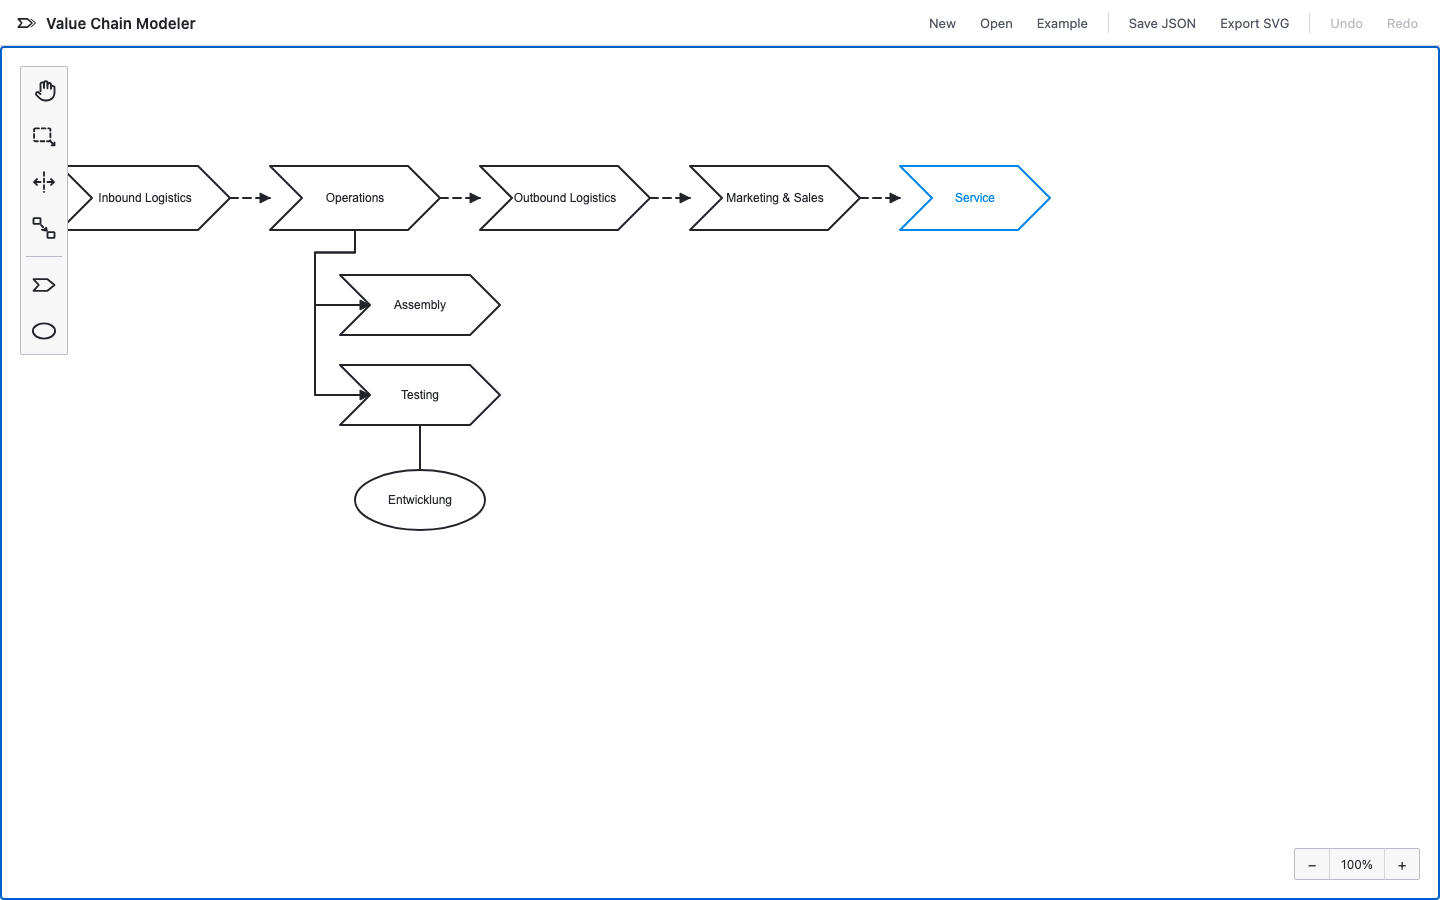
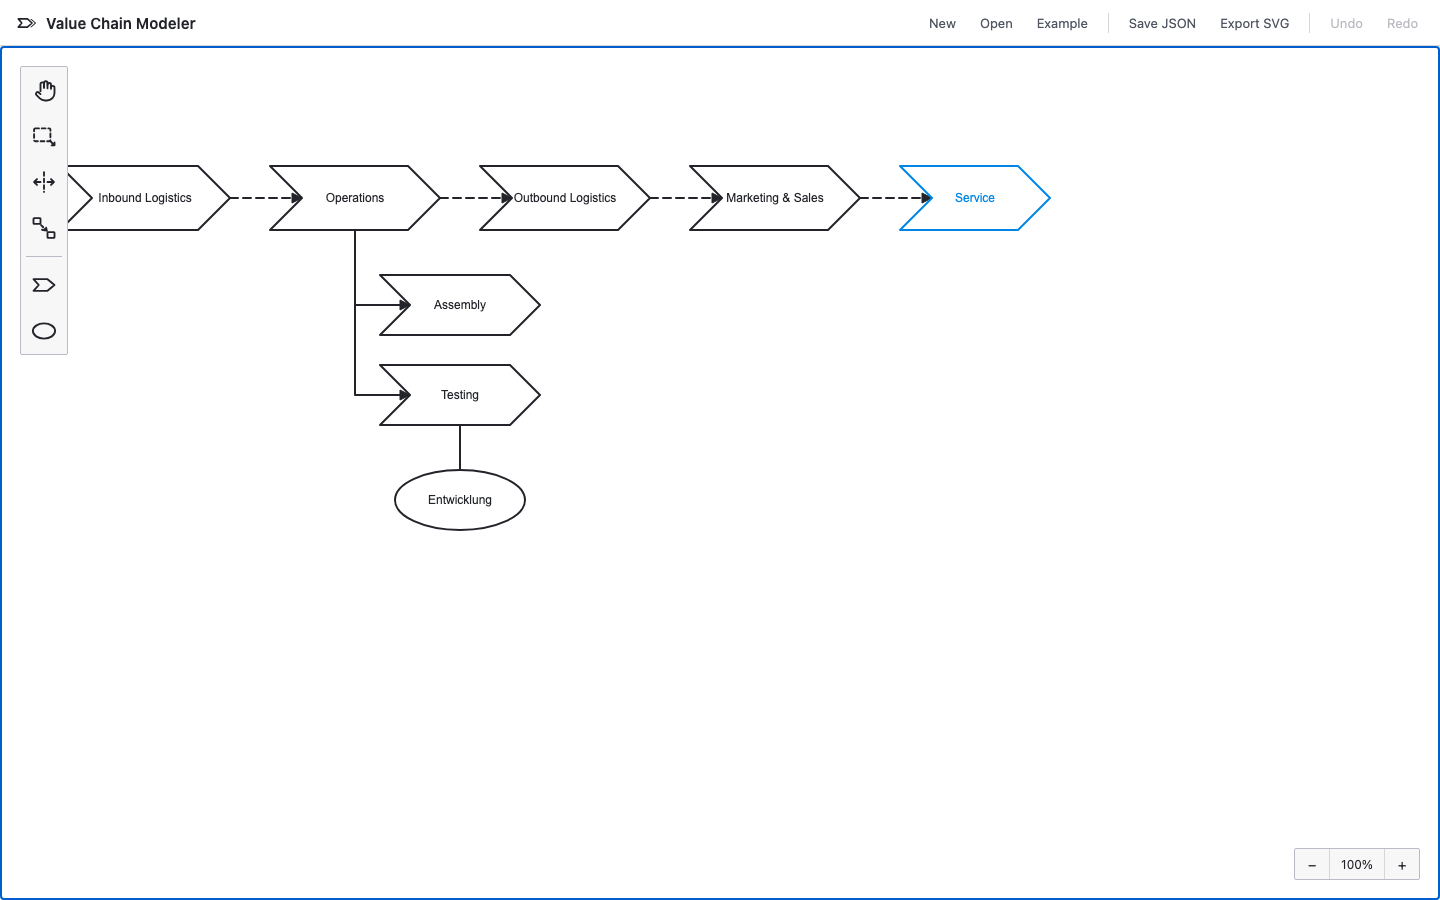
fix(renderer): kink-free column trunk and regenerated example routes
The column trunk now runs straight under the parent's bottom-center exit
whenever all sub-steps clear it, jogging left only when they overlap the
center; default hierarchy placement puts the first child right of the center
accordingly. The Porter example is regenerated through the layouter (arrows now
crop exactly to the notch vertices) and example/porter.vc.json becomes the
single source of truth, imported by both the webapp and the VS Code extension.

diff --git a/modelers/value-chain/apps/webapp/src/example.ts b/modelers/value-chain/apps/webapp/src/example.ts
@@ -1,136 +1,9 @@
-import type { ValueChainDocument } from '@miragon/value-chain-schema-model';
+import { loadDocument, type ValueChainDocument } from '@miragon/value-chain-schema-model';
+import exampleJson from '../../../example/porter.vc.json';
 
-/** Porter-style example: primary chain with a decomposed "Operations" step. */
-export const EXAMPLE_DOCUMENT: ValueChainDocument = {
-  schemaVersion: 1,
-  meta: { name: 'Porter Value Chain' },
-  elements: [
-    {
-      id: 'step-inbound',
-      elementType: 'step',
-      name: 'Inbound Logistics',
-      bounds: { x: 60, y: 120, width: 170, height: 64 },
-    },
-    {
-      id: 'step-operations',
-      elementType: 'step',
-      name: 'Operations',
-      bounds: { x: 270, y: 120, width: 170, height: 64 },
-    },
-    {
-      id: 'step-outbound',
-      elementType: 'step',
-      name: 'Outbound Logistics',
-      bounds: { x: 480, y: 120, width: 170, height: 64 },
-    },
-    {
-      id: 'step-marketing',
-      elementType: 'step',
-      name: 'Marketing & Sales',
-      bounds: { x: 690, y: 120, width: 170, height: 64 },
-    },
-    {
-      id: 'step-service',
-      elementType: 'step',
-      name: 'Service',
-      bounds: { x: 900, y: 120, width: 150, height: 64 },
-      color: 'hsl(205, 100%, 45%)',
-    },
-    {
-      id: 'step-assembly',
-      elementType: 'step',
-      name: 'Assembly',
-      bounds: { x: 340, y: 229, width: 160, height: 60 },
-    },
-    {
-      id: 'step-testing',
-      elementType: 'step',
-      name: 'Testing',
-      bounds: { x: 340, y: 319, width: 160, height: 60 },
-    },
-    {
-      id: 'org-development',
-      elementType: 'orgUnit',
-      name: 'Entwicklung',
-      bounds: { x: 355, y: 424, width: 130, height: 60 },
-    },
-  ],
-  connections: [
-    {
-      id: 'seq-1',
-      connectionType: 'sequence',
-      source: 'step-inbound',
-      target: 'step-operations',
-      waypoints: [
-        { x: 230, y: 152 },
-        { x: 270, y: 152 },
-      ],
-    },
-    {
-      id: 'seq-2',
-      connectionType: 'sequence',
-      source: 'step-operations',
-      target: 'step-outbound',
-      waypoints: [
-        { x: 440, y: 152 },
-        { x: 480, y: 152 },
-      ],
-    },
-    {
-      id: 'seq-3',
-      connectionType: 'sequence',
-      source: 'step-outbound',
-      target: 'step-marketing',
-      waypoints: [
-        { x: 650, y: 152 },
-        { x: 690, y: 152 },
-      ],
-    },
-    {
-      id: 'seq-4',
-      connectionType: 'sequence',
-      source: 'step-marketing',
-      target: 'step-service',
-      waypoints: [
-        { x: 860, y: 152 },
-        { x: 900, y: 152 },
-      ],
-    },
-    {
-      id: 'hier-1',
-      connectionType: 'hierarchy',
-      source: 'step-operations',
-      target: 'step-assembly',
-      waypoints: [
-        { x: 355, y: 184 },
-        { x: 355, y: 206.5 },
-        { x: 315, y: 206.5 },
-        { x: 315, y: 259 },
-        { x: 370, y: 259 },
-      ],
-    },
-    {
-      id: 'hier-2',
-      connectionType: 'hierarchy',
-      source: 'step-operations',
-      target: 'step-testing',
-      waypoints: [
-        { x: 355, y: 184 },
-        { x: 355, y: 206.5 },
-        { x: 315, y: 206.5 },
-        { x: 315, y: 349 },
-        { x: 370, y: 349 },
-      ],
-    },
-    {
-      id: 'assign-1',
-      connectionType: 'assignment',
-      source: 'step-testing',
-      target: 'org-development',
-      waypoints: [
-        { x: 420, y: 379 },
-        { x: 420, y: 424 },
-      ],
-    },
-  ],
-};
+/**
+ * Porter-style example: primary chain with a decomposed "Operations" step and an
+ * organizational unit. Single source of truth: example/porter.vc.json (layouter-generated
+ * routes; also used by the VS Code extension and the value-chain-modeling skill).
+ */
+export const EXAMPLE_DOCUMENT: ValueChainDocument = loadDocument(exampleJson);

diff --git a/modelers/value-chain/packages/renderer/test/layouter.test.ts b/modelers/value-chain/packages/renderer/test/layouter.test.ts
@@ -59,7 +59,8 @@ describe('VcLayouter', () => {
     ]);
   });
 
-  it('column: exits the bottom center, bus to the trunk, arm into the left notch', () => {
+  it('column: runs straight under the center exit when the children clear it', () => {
+    // child at x=90: center (80) <= 90 - clearance (10) → trunk directly under the exit
     const below = { id: 'b', x: 90, y: 200, width: 130, height: 50 } as Shape;
     const hierarchy = {
       id: 'c',
@@ -70,13 +71,31 @@ describe('VcLayouter', () => {
     } as unknown as Connection;
 
     const waypoints = createLayouter().layoutConnection(hierarchy);
-    // center exit (80), bus halfway (130), trunk left of the child (90 - 25 = 65)
+    expect(waypoints).toEqual([
+      { x: 80, y: 30 },
+      { x: 80, y: 225 },
+      { x: 155, y: 225 },
+    ]);
+  });
+
+  it('column: jogs to a trunk left of the children when they overlap the center', () => {
+    const below = { id: 'b', x: 70, y: 200, width: 130, height: 50 } as Shape;
+    const hierarchy = {
+      id: 'c',
+      source,
+      target: below,
+      waypoints: [],
+      vcType: 'hierarchy',
+    } as unknown as Connection;
+
+    const waypoints = createLayouter().layoutConnection(hierarchy);
+    // bus halfway (130), trunk left of the child (70 - 25 = 45)
     expect(waypoints).toEqual([
       { x: 80, y: 30 },
       { x: 80, y: 130 },
-      { x: 65, y: 130 },
-      { x: 65, y: 225 },
-      { x: 155, y: 225 },
+      { x: 45, y: 130 },
+      { x: 45, y: 225 },
+      { x: 135, y: 225 },
     ]);
   });
 
@@ -94,12 +113,12 @@ describe('VcLayouter', () => {
         vcType: 'hierarchy',
       } as unknown as Connection);
 
-    // both exit at the parent's center x
+    // both exit at the parent's center x and share the straight trunk under it
     expect(route(first)[0]).toEqual({ x: 80, y: 30 });
     expect(route(second)[0]).toEqual({ x: 80, y: 30 });
-    // both use the same trunk x, arms enter at the child's mid height
-    expect(route(first)[2]!.x).toBe(65);
-    expect(route(second)[2]!.x).toBe(65);
+    expect(route(first)[1]!.x).toBe(80);
+    expect(route(second)[1]!.x).toBe(80);
+    // arms enter horizontally at the child's mid height
     expect(route(first).at(-1)).toEqual({ x: 155, y: 225 });
     expect(route(second).at(-1)).toEqual({ x: 155, y: 305 });
   });

diff --git a/modelers/value-chain/packages/renderer/src/modeling/VcLayouter.ts b/modelers/value-chain/packages/renderer/src/modeling/VcLayouter.ts
@@ -13,6 +13,12 @@ import { notchDepth } from '../draw/geometry.js';
 /** Horizontal distance of the column trunk from the leftmost sub-step. */
 const TRUNK_MARGIN = 25;
 
+/**
+ * Minimum gap between the center exit and the leftmost sub-step for the trunk to run
+ * straight down under the exit (kink-free column).
+ */
+export const TRUNK_CLEARANCE = 10;
+
 /** Minimum stub length below the parent before the bus/trunk elbow. */
 const BUS_MIN_STUB = 10;
 
@@ -95,9 +101,9 @@ export default class VcLayouter extends BaseLayouter {
    * the sub-steps' arrangement picks how it continues:
    * - horizontal row (aligned tops / single child under the parent's span): down to a
    *   shared bus halfway to the children, across, and down into each sub-step's top;
-   * - vertical column (ARIS rake, the default): down to the bus, across to a shared
-   *   trunk left of all children, down, then a horizontal arm into each sub-step's
-   *   left notch.
+   * - vertical column (ARIS rake, the default): straight down under the exit whenever
+   *   all children sit right of the center (no kink), otherwise via a bus to a shared
+   *   trunk left of all children; then a horizontal arm into each left notch.
    * Anchor hints are ignored on purpose: hierarchy edges always re-route from the
    * current geometry.
    */
@@ -116,7 +122,9 @@ export default class VcLayouter extends BaseLayouter {
       const bottom = source.y + source.height;
       const topmost = Math.min(...group.map((child) => child.y));
       const busY = Math.max(bottom + BUS_MIN_STUB, (bottom + topmost) / 2);
-      const trunkX = Math.min(...group.map((child) => child.x)) - TRUNK_MARGIN;
+      const minChildX = Math.min(...group.map((child) => child.x));
+      const trunkX =
+        sourceMid.x <= minChildX - TRUNK_CLEARANCE ? sourceMid.x : minChildX - TRUNK_MARGIN;
       return withoutRedundantPoints([
         sourceMid,
         { x: sourceMid.x, y: busY },

diff --git a/modelers/value-chain/packages/renderer/src/append/VcAutoPlaceBehavior.ts b/modelers/value-chain/packages/renderer/src/append/VcAutoPlaceBehavior.ts
@@ -3,7 +3,7 @@ import type EventBus from 'diagram-js/lib/core/EventBus';
 import type { Shape } from 'diagram-js/lib/model/Types';
 import type { Point } from 'diagram-js/lib/util/Types';
 import { isVcShape, type VcShape } from '../model/di-types.js';
-import { hierarchyChildren, isRowArrangement } from '../modeling/VcLayouter.js';
+import { hierarchyChildren, isRowArrangement, TRUNK_CLEARANCE } from '../modeling/VcLayouter.js';
 import type VcConnect from '../connect/VcConnect.js';
 
 /** Runs before the diagram-js default (priority 100). */
@@ -11,7 +11,7 @@ const BEFORE_DEFAULT = 200;
 
 const SEQUENCE_GAP_X = 45;
 const HIERARCHY_GAP_Y = 45;
-const HIERARCHY_INDENT = 70;
+
 const SIBLING_GAP_Y = 30;
 const SIBLING_GAP_X = 20;
 const DECONFLICT_STEP_Y = 30;
@@ -77,7 +77,7 @@ export default class VcAutoPlaceBehavior {
     const children = hierarchyChildren(source);
     if (!children.length) {
       return {
-        x: source.x + HIERARCHY_INDENT + shape.width / 2,
+        x: source.x + source.width / 2 + TRUNK_CLEARANCE + shape.width / 2,
         y: source.y + source.height + HIERARCHY_GAP_Y + shape.height / 2,
       };
     }
